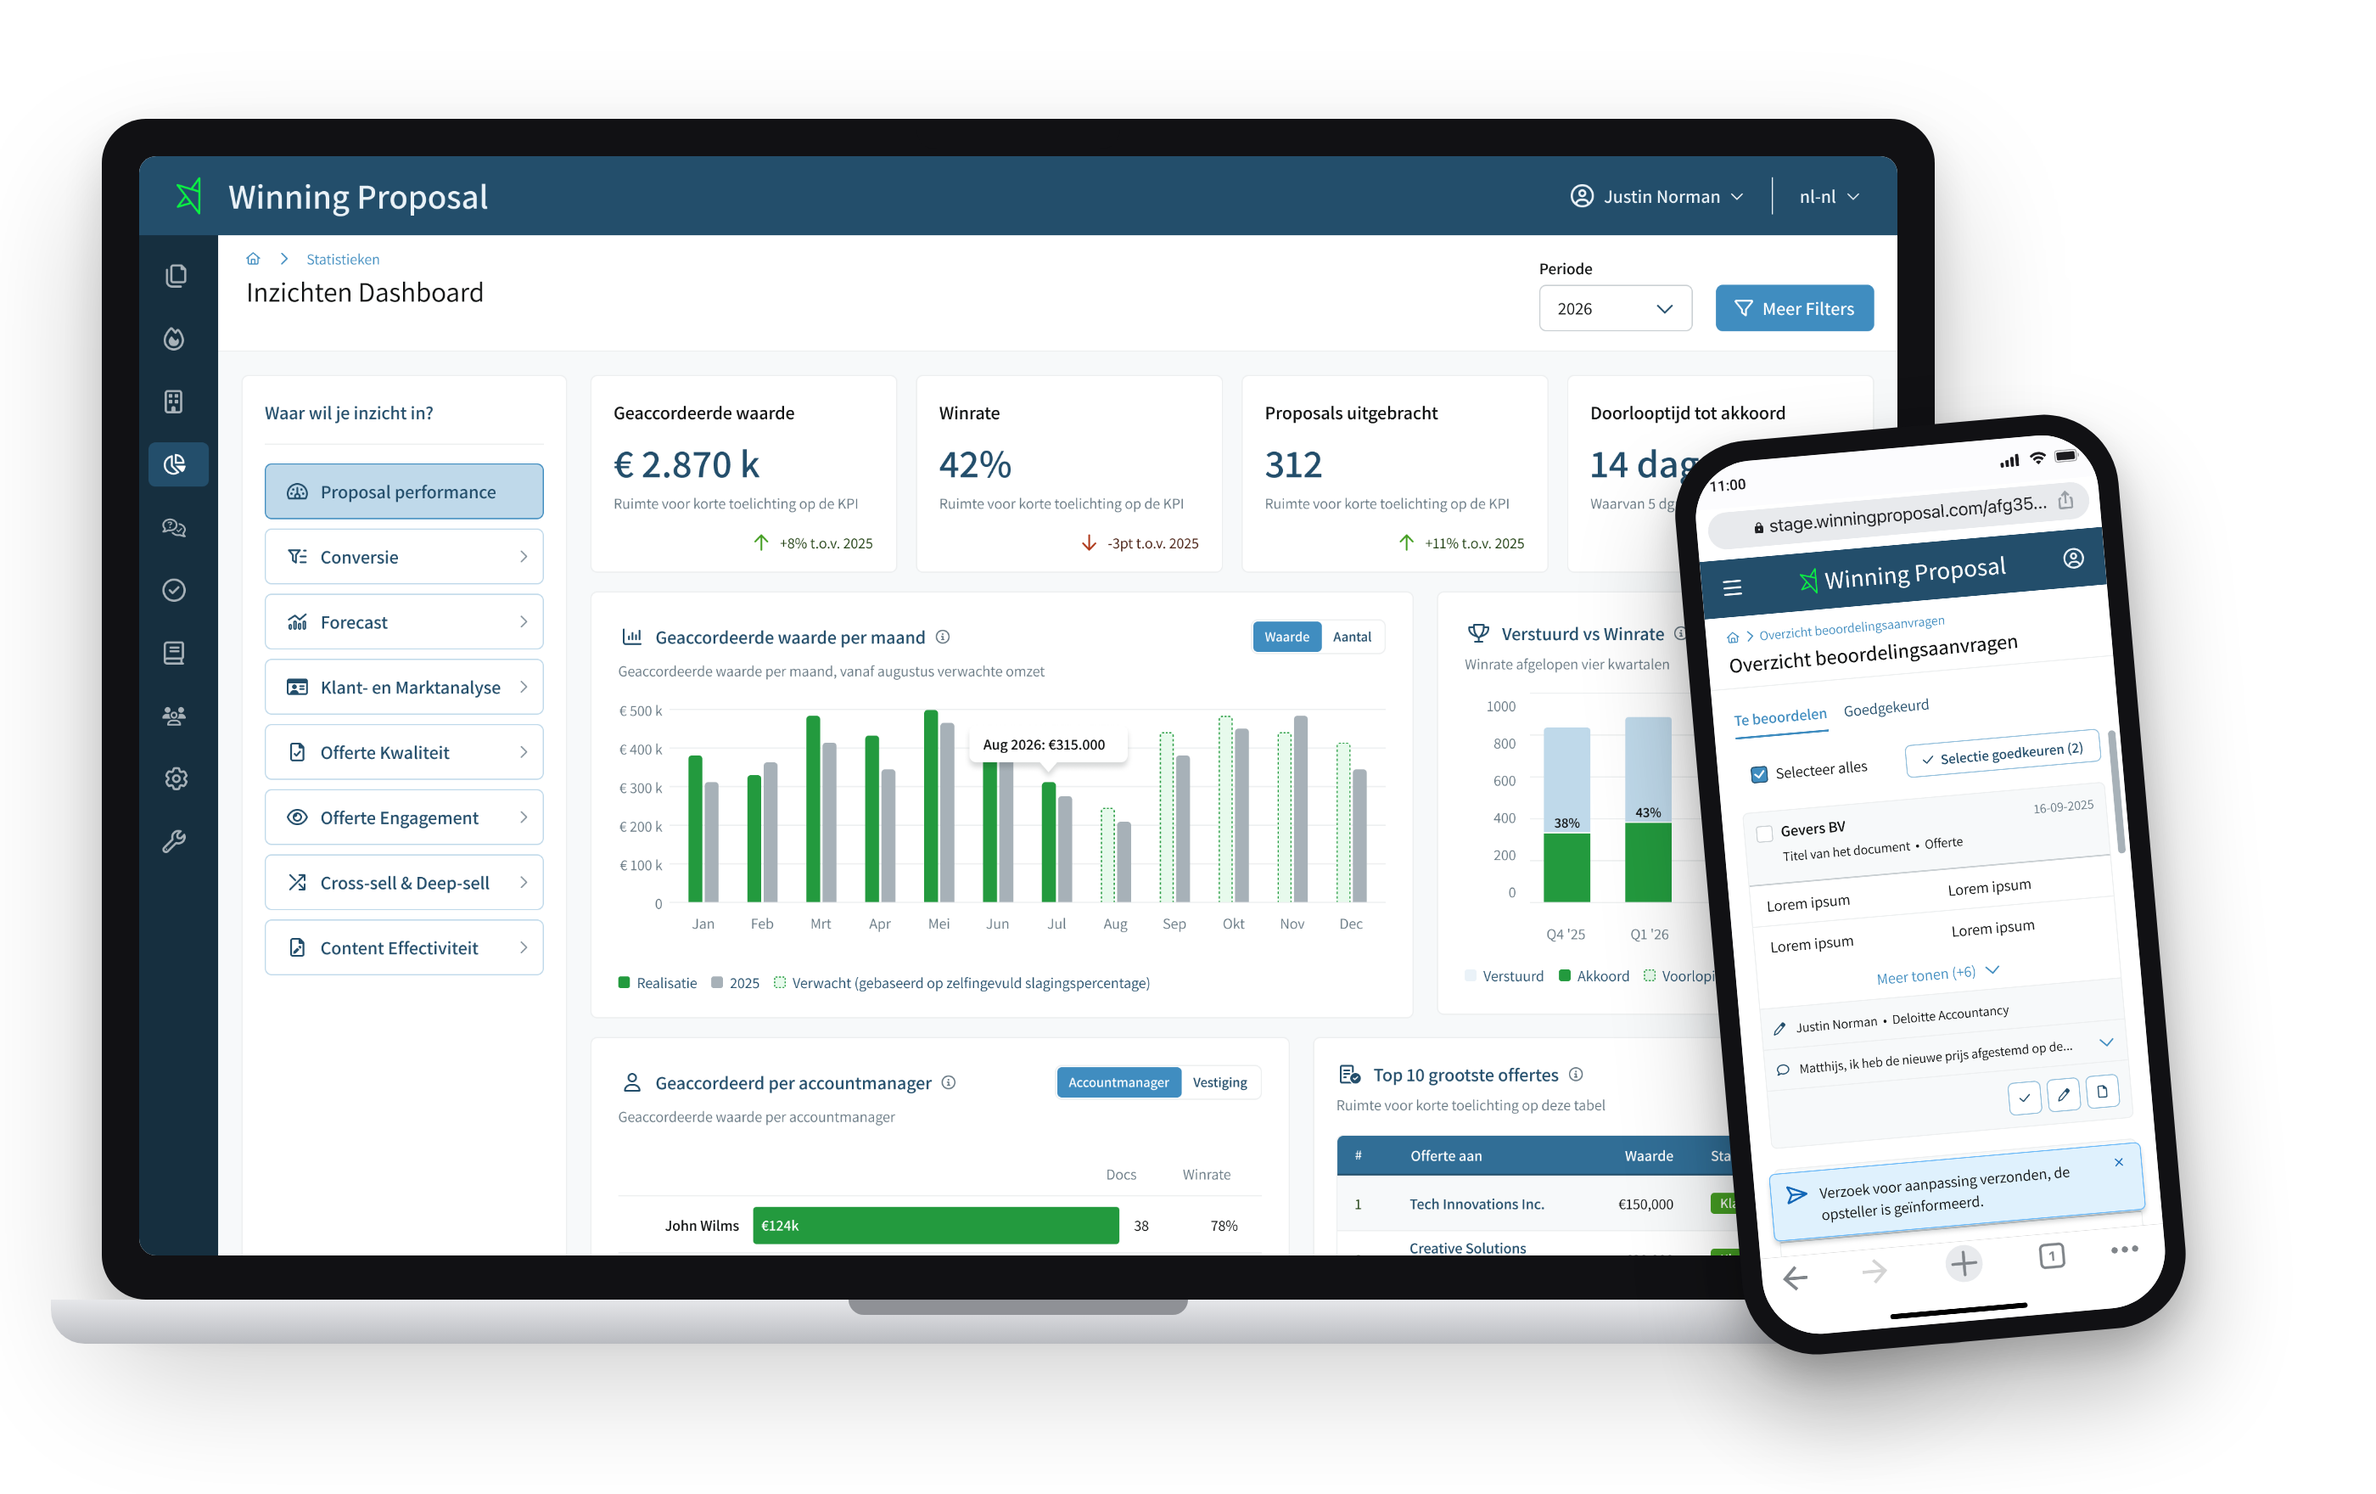
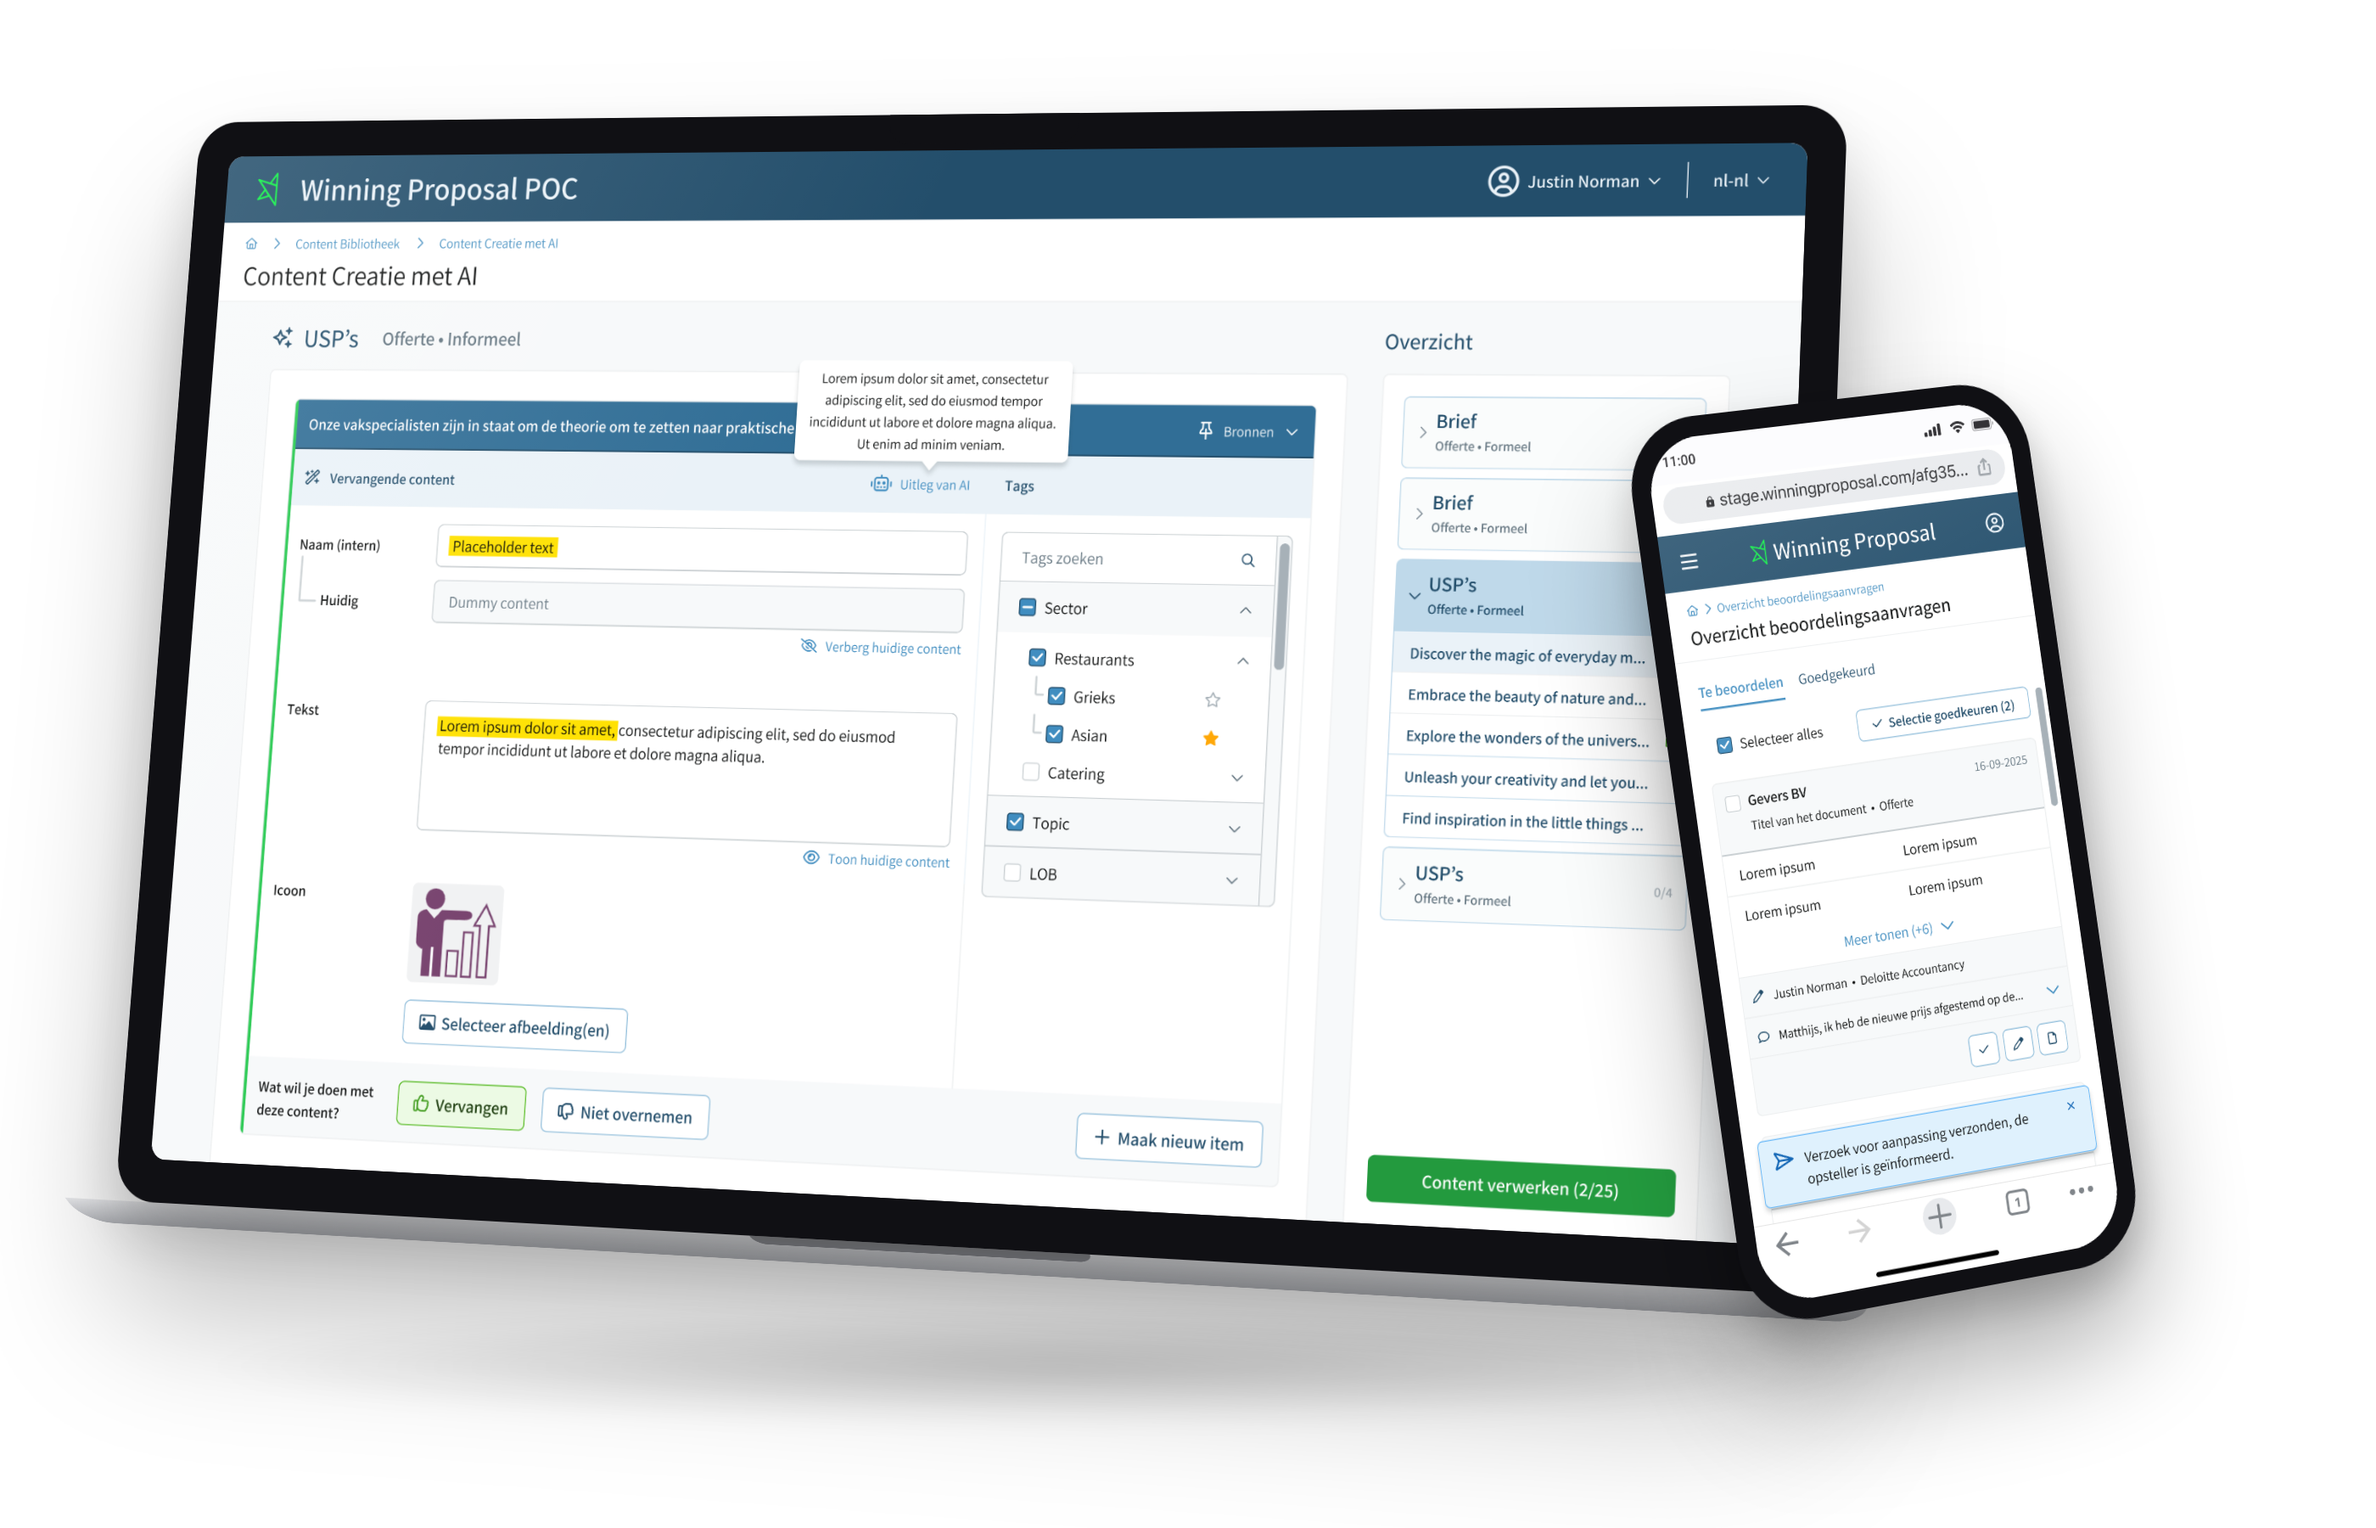
Winning Proposal: 3D-mockup met AI-contentcreatie, meer ruimte in casekaarten, bewijsregel herschreven

diff --git a/home-v2.html b/home-v2.html
@@ -10,7 +10,7 @@
   <link rel="preload" href="assets/fonts/28a48c91_latin.woff2" as="font" type="font/woff2" crossorigin>
   <link rel="stylesheet" href="assets/css/main.css?v=8949f5d7">
   <link rel="stylesheet" href="assets/css/pages.css?v=014a89de">
-  <link rel="stylesheet" href="assets/css/home-v2.css?v=0f115c94">
+  <link rel="stylesheet" href="assets/css/home-v2.css?v=4b4a07ba">
 </head>
 <body class="page-home-v2">
 <header class="header" id="header">
@@ -77,13 +77,13 @@
 
     <article class="v2-case reveal" style="--c:var(--c-wp)">
       <div class="media media--mock">
-        <img src="assets/img/winning-proposal-mockup.png" alt="Het inzichten-dashboard van Winning Proposal op een laptop en de goedkeuringsflow op een telefoon" width="2800" height="1760" loading="lazy">
+        <img src="assets/img/winning-proposal-mockup.png" alt="Contentcreatie met AI in Winning Proposal op een laptop en de goedkeuringsflow op een telefoon" width="2800" height="1800" loading="lazy">
       </div>
       <div class="text">
         <p class="kicker">Winning Proposal <span>B2B SaaS · Lead Product Designer · sinds 2024</span></p>
         <h3>Offertesoftware waarmee salesteams sneller een winnend voorstel maken, met hulp van AI</h3>
         <p class="outcome">Vernieuwde contentbibliotheek, contentcreatie met AI, goedkeurings- en vervolgdocumentflows en een commercieel en persoonlijk dashboard.</p>
-        <p class="proof">Twee jaar lead designer naast de product owners; elke feature iteratief gebouwd op gebruikersonderzoek, benchmarks en gevalideerde prototypes.</p>
+        <p class="proof">Lead designer sinds medio 2024, in nauwe samenwerking met de product owners. Iteratief ontworpen, onderbouwd met gebruikersonderzoek en benchmarks, gevalideerd met prototypes.</p>
       </div>
     </article>
 

diff --git a/assets/css/home-v2.css b/assets/css/home-v2.css
@@ -51,15 +51,15 @@
 .v2-case.alt .media{border-radius:0 0 100px 0}
 .v2-case .media img{width:100%;height:100%;object-fit:contain;display:block;transition:transform .5s cubic-bezier(.2,.6,.3,1)}
 .v2-case .media:hover img{transform:translateY(-6px) scale(1.02)}
-.v2-case .media--mock{padding:6% 5%}
+.v2-case .media--mock{padding:4% 3%}
 .v2-case .media--shot{padding:9% 8%}
 .v2-case .media--shot img{object-fit:cover;object-position:top left;border-radius:6px;box-shadow:0 18px 40px hsla(var(--black-hsl),.14);height:auto;aspect-ratio:1512/982}
 .v2-case .text{max-width:40rem}
-.v2-case .kicker{display:flex;flex-wrap:wrap;gap:.3rem 1rem;align-items:baseline;font-weight:500;margin-bottom:1rem}
+.v2-case .kicker{display:flex;flex-wrap:wrap;gap:.3rem 1rem;align-items:baseline;font-weight:500;margin-bottom:1.2rem}
 .v2-case .kicker span{font-weight:400;font-size:.9rem;color:var(--ink-3)}
-.v2-case h3{margin-bottom:1rem;text-wrap:balance}
-.v2-case .outcome{color:var(--ink-2);margin-bottom:.6rem}
-.v2-case .proof{color:var(--ink-3);font-size:.95rem;margin-bottom:1.4rem;padding-left:.9rem;border-left:2px solid var(--c)}
+.v2-case h3{margin-bottom:1.5rem;text-wrap:balance}
+.v2-case .outcome{color:var(--ink-2);margin-bottom:1.4rem}
+.v2-case .proof{color:var(--ink-3);font-size:.95rem;margin-bottom:1.8rem;padding-left:.9rem;border-left:2px solid var(--c)}
 
 /* werkwijze */
 .v2-how{padding:5vw 0;background:hsla(var(--lightAccent-hsl),1)}
